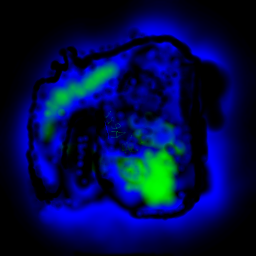
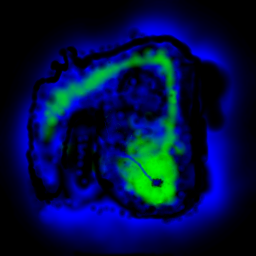
Changed island material layout plus added tiny updates.

diff --git a/src/Glitter-Engine/implementation/MaterialManager.cpp b/src/Glitter-Engine/implementation/MaterialManager.cpp
@@ -18,10 +18,9 @@ util::managed_ptr<Material> MaterialManager::LoadFromFile(GraphicsEngine* pGraph
 	std::cout << "Loading material..." << std::endl;
 
 	Material *pResult  = LoadFromMTLFile(pGraphicsEngine, filename, materialName);
+	materials[materialKey] = pResult;
 
 	std::cout << "Material loaded!" << std::endl;
-
-	materials[materialKey] = pResult;
 
 	return pResult;
 }
@@ -162,7 +161,7 @@ Material* MaterialManager::LoadFromMTLFile(GraphicsEngine* pGraphicsEngine, cons
 		}
 
 		LoadTexture(pResult->normal_spec_rough_Texture, normal_spec_rough_img, TextureType::DATA);
-		LoadTexture(pResult->albedoTexture, albedoImg, TextureType::COLOR, isTransparent);
+		LoadTexture(pResult->albedoTexture, albedoImg, TextureType::COLOR, !isTransparent);
 	}
 	catch (...) {
 		delete pResult;
@@ -172,7 +171,7 @@ Material* MaterialManager::LoadFromMTLFile(GraphicsEngine* pGraphicsEngine, cons
 	return pResult;
 }
 
-void MaterialManager::LoadTexture(gl::Texture& target, const std::string& filename, TextureType type, bool transparent)
+void MaterialManager::LoadTexture(gl::Texture& target, const std::string& filename, TextureType type, bool useMipMap)
 {
 	sf::Image img;
 
@@ -182,13 +181,13 @@ void MaterialManager::LoadTexture(gl::Texture& target, const std::string& filena
 
 	img.flipVertically();
 
-	LoadTexture(target, img, type, transparent);
+	LoadTexture(target, img, type, useMipMap);
 }
 
-void MaterialManager::LoadTexture(gl::Texture& target, const sf::Image& img, TextureType type, bool transparent)
+void MaterialManager::LoadTexture(gl::Texture& target, const sf::Image& img, TextureType type, bool useMipMap)
 {
 	target.Bind(gl::Texture::Target::_2D);
-	if (!transparent) {
+	if (useMipMap) {
 		gl::Texture::MinFilter(gl::Texture::Target::_2D, gl::TextureMinFilter::LinearMipmapLinear);
 	}
 	else {
@@ -209,7 +208,7 @@ void MaterialManager::LoadTexture(gl::Texture& target, const sf::Image& img, Tex
 		gl::DataType::UnsignedByte,
 		img.getPixelsPtr());
 
-	if (!transparent) {
+	if (useMipMap) {
 		gl::Texture::GenerateMipmap(gl::Texture::Target::_2D);
 	}
 }

diff --git a/src/Glitter-Island/DemoCore.cpp b/src/Glitter-Island/DemoCore.cpp
@@ -4,6 +4,7 @@
 #include <SFML/OpenGL.hpp>
 #include <sstream>
 #include <iostream>
+#include <iomanip>
 #include <glm/gtc/matrix_transform.hpp>
 
 //#include <GE/StandardMaterial.hpp>
@@ -97,14 +98,14 @@ int DemoCore::Start()
 	double FPSUpdateDelaySec = 0.1;
 
 	int framesSinceLastFPSUpdate = 0;
-	int recentMinFPS = 5000;
+	int recentMinFPS = std::numeric_limits<int>::max();
 	float avgFPS = 0;
 	int framecount = 0;
 
 	double lastMinResetSec = 0;
 	double longestMinKeepSec = 7;
 
-	float lastUpdateSec = 0;
+	float lastUpdateSec = clock.getElapsedTime().asSeconds()-1;
 
 	while (running) {
 		elapsedSec = clock.getElapsedTime().asSeconds();
@@ -138,21 +139,21 @@ int DemoCore::Start()
 		framecount += 1;
 
 		if (elapsedSec - lastMinResetSec > longestMinKeepSec) {
-			recentMinFPS = 5000;
+			recentMinFPS = std::numeric_limits<int>::max();
 			lastMinResetSec = elapsedSec;
 		}
 		else {
 			recentMinFPS = std::min(int(currFPS), recentMinFPS);
 		}
 
+		framesSinceLastFPSUpdate++;
 		if (elapsedSec - lastFPSUpdateSec > FPSUpdateDelaySec) {
 			int updatedFPS = (int)std::round(framesSinceLastFPSUpdate / (elapsedSec - lastFPSUpdateSec));
-			pWindow->setTitle(sf::String("Glitter-Island <| FPS: ") + std::to_string(updatedFPS) + " current; " + std::to_string((int)avgFPS) + " avg; " + std::to_string(recentMinFPS) + " recent min |>");
+			std::stringstream ss;
+			ss << "Glitter-Island <| FPS: " << std::setw(3) << updatedFPS << " current; " << std::setw(3) << (int)avgFPS << " avg; " << std::setw(3) << recentMinFPS << " recent min |> Build Date: " __DATE__;
+			pWindow->setTitle(ss.str());
 			lastFPSUpdateSec = elapsedSec;
 			framesSinceLastFPSUpdate = 0;
-		}
-		else {
-			framesSinceLastFPSUpdate++;
 		}
 
 		pWindow->display();

diff --git a/src/Glitter-Engine/include/GE/MaterialManager.hpp b/src/Glitter-Engine/include/GE/MaterialManager.hpp
@@ -15,8 +15,8 @@ public:
 
 private:
 	enum class TextureType { COLOR, DATA };
-	static void LoadTexture(gl::Texture& target, const std::string& filename, TextureType type, bool transparent = false);
-	static void LoadTexture(gl::Texture& target, const sf::Image& img, TextureType type, bool transparent = false);
+	static void LoadTexture(gl::Texture& target, const std::string& filename, TextureType type, bool useMipMap = true);
+	static void LoadTexture(gl::Texture& target, const sf::Image& img, TextureType type, bool useMipMap = true);
 	static sf::Image LoadImage(const std::string& filename);
 
 private:

diff --git a/src/Glitter-Engine/implementation/Terrain.cpp b/src/Glitter-Engine/implementation/Terrain.cpp
@@ -269,6 +269,7 @@ sf::Image Terrain::LoadTexture(gl::Texture& target, const std::string& filename,
 void Terrain::LoadTexture(gl::Texture& target, const sf::Image& srcImg, bool data, float anisotropy)
 {
 	target.Bind(gl::Texture::Target::_2D);
+	
 	gl::Texture::MinFilter(gl::Texture::Target::_2D, gl::TextureMinFilter::LinearMipmapLinear);
 	gl::Texture::MagFilter(gl::Texture::Target::_2D, gl::TextureMagFilter::Linear);
 
